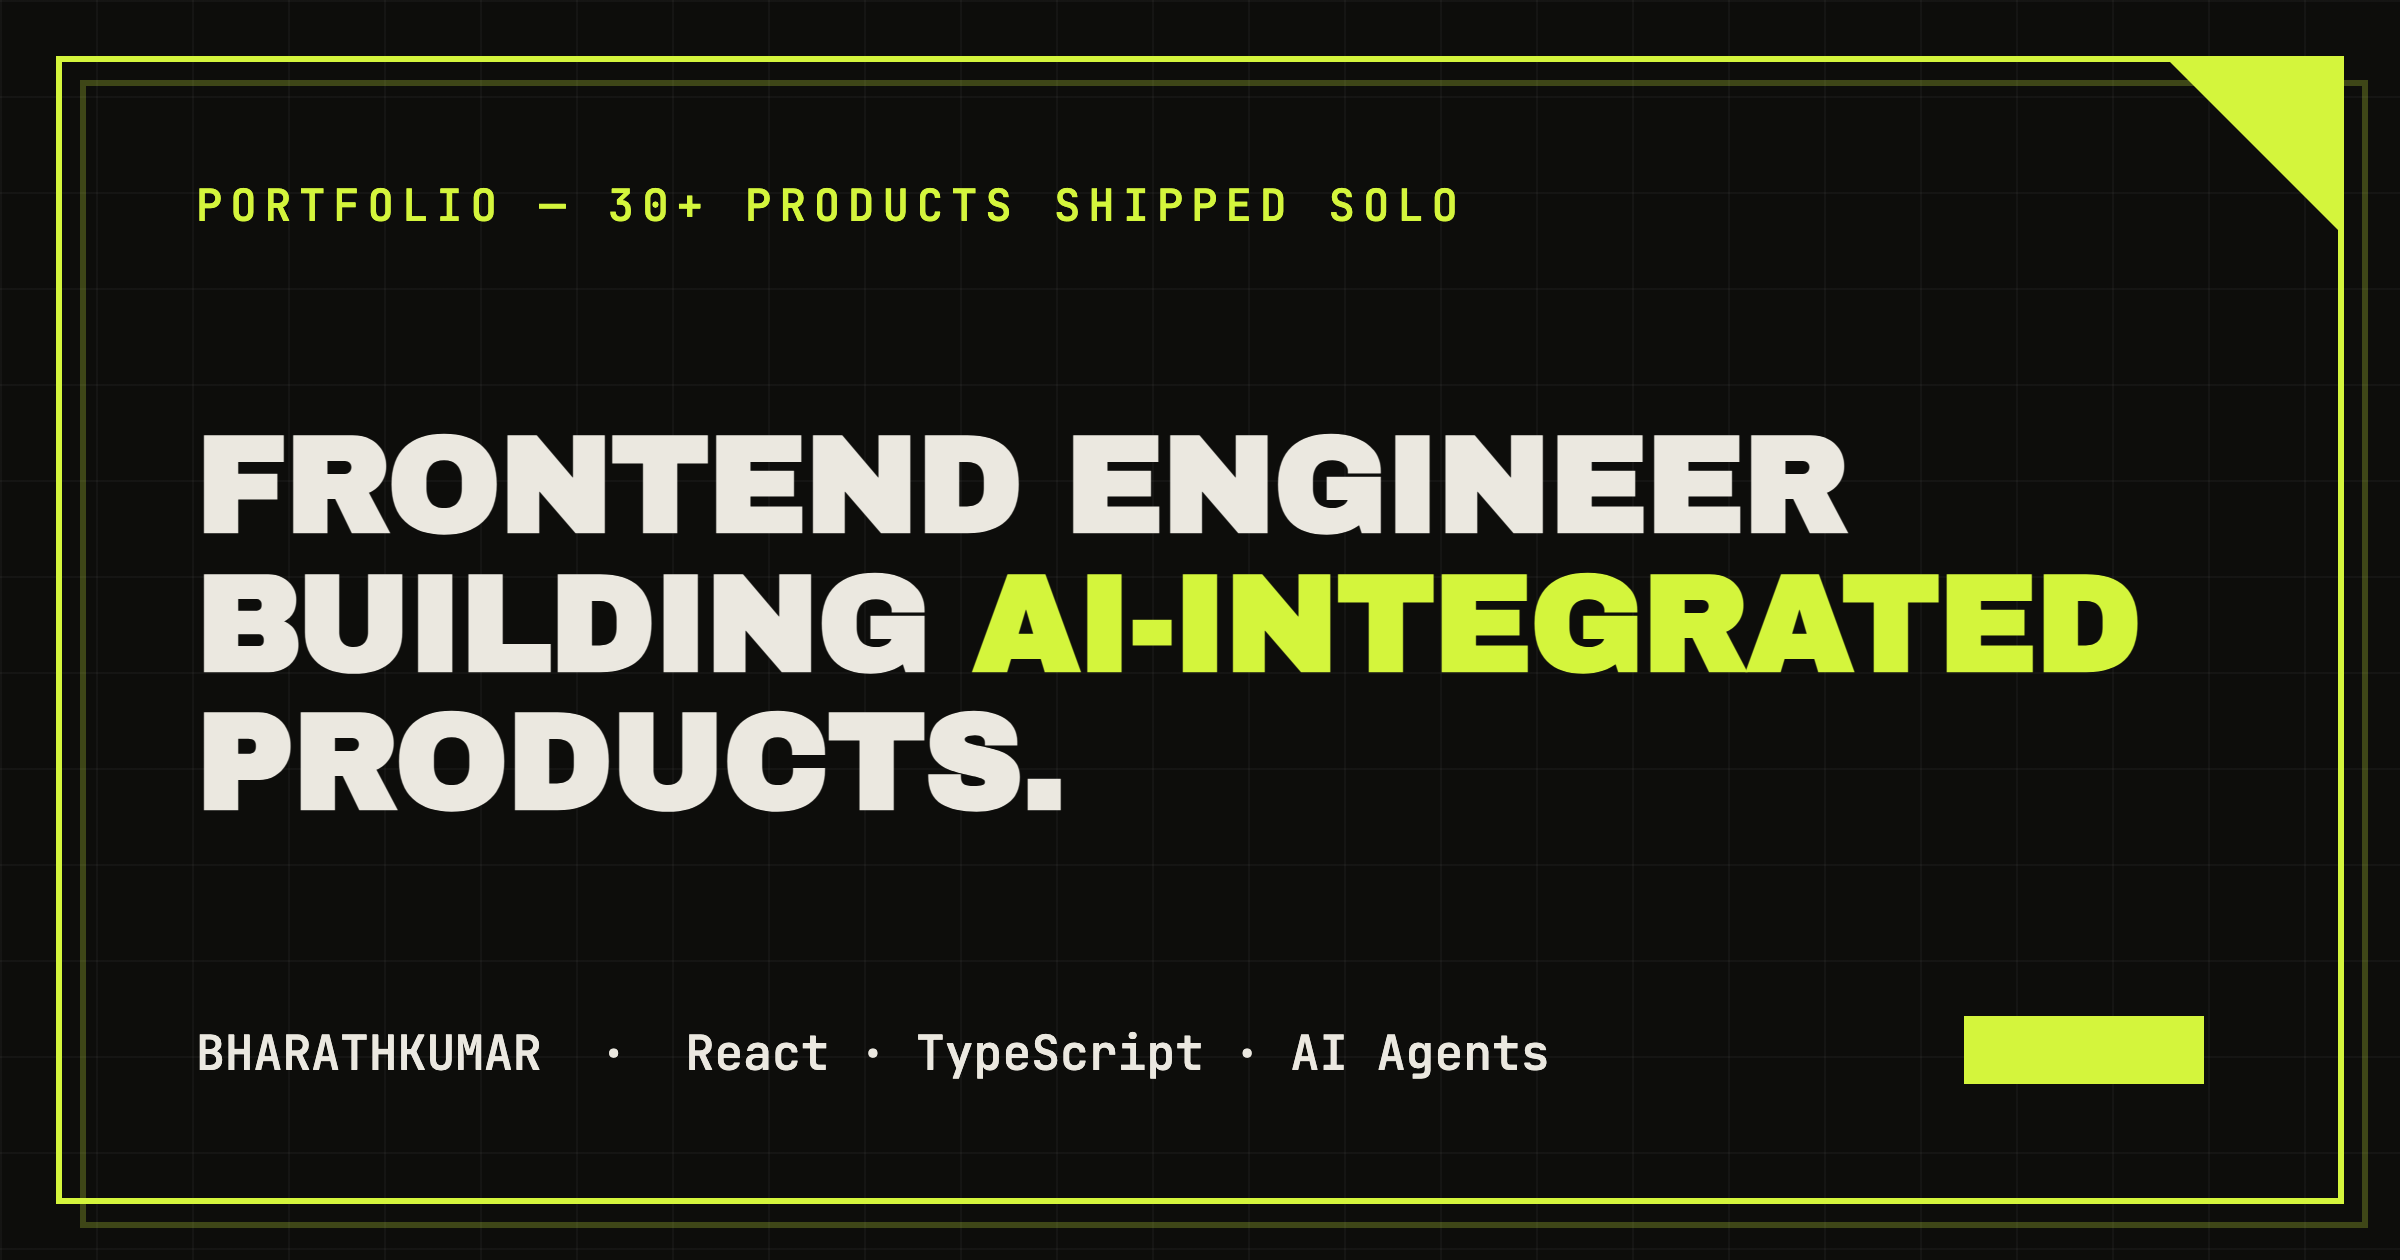
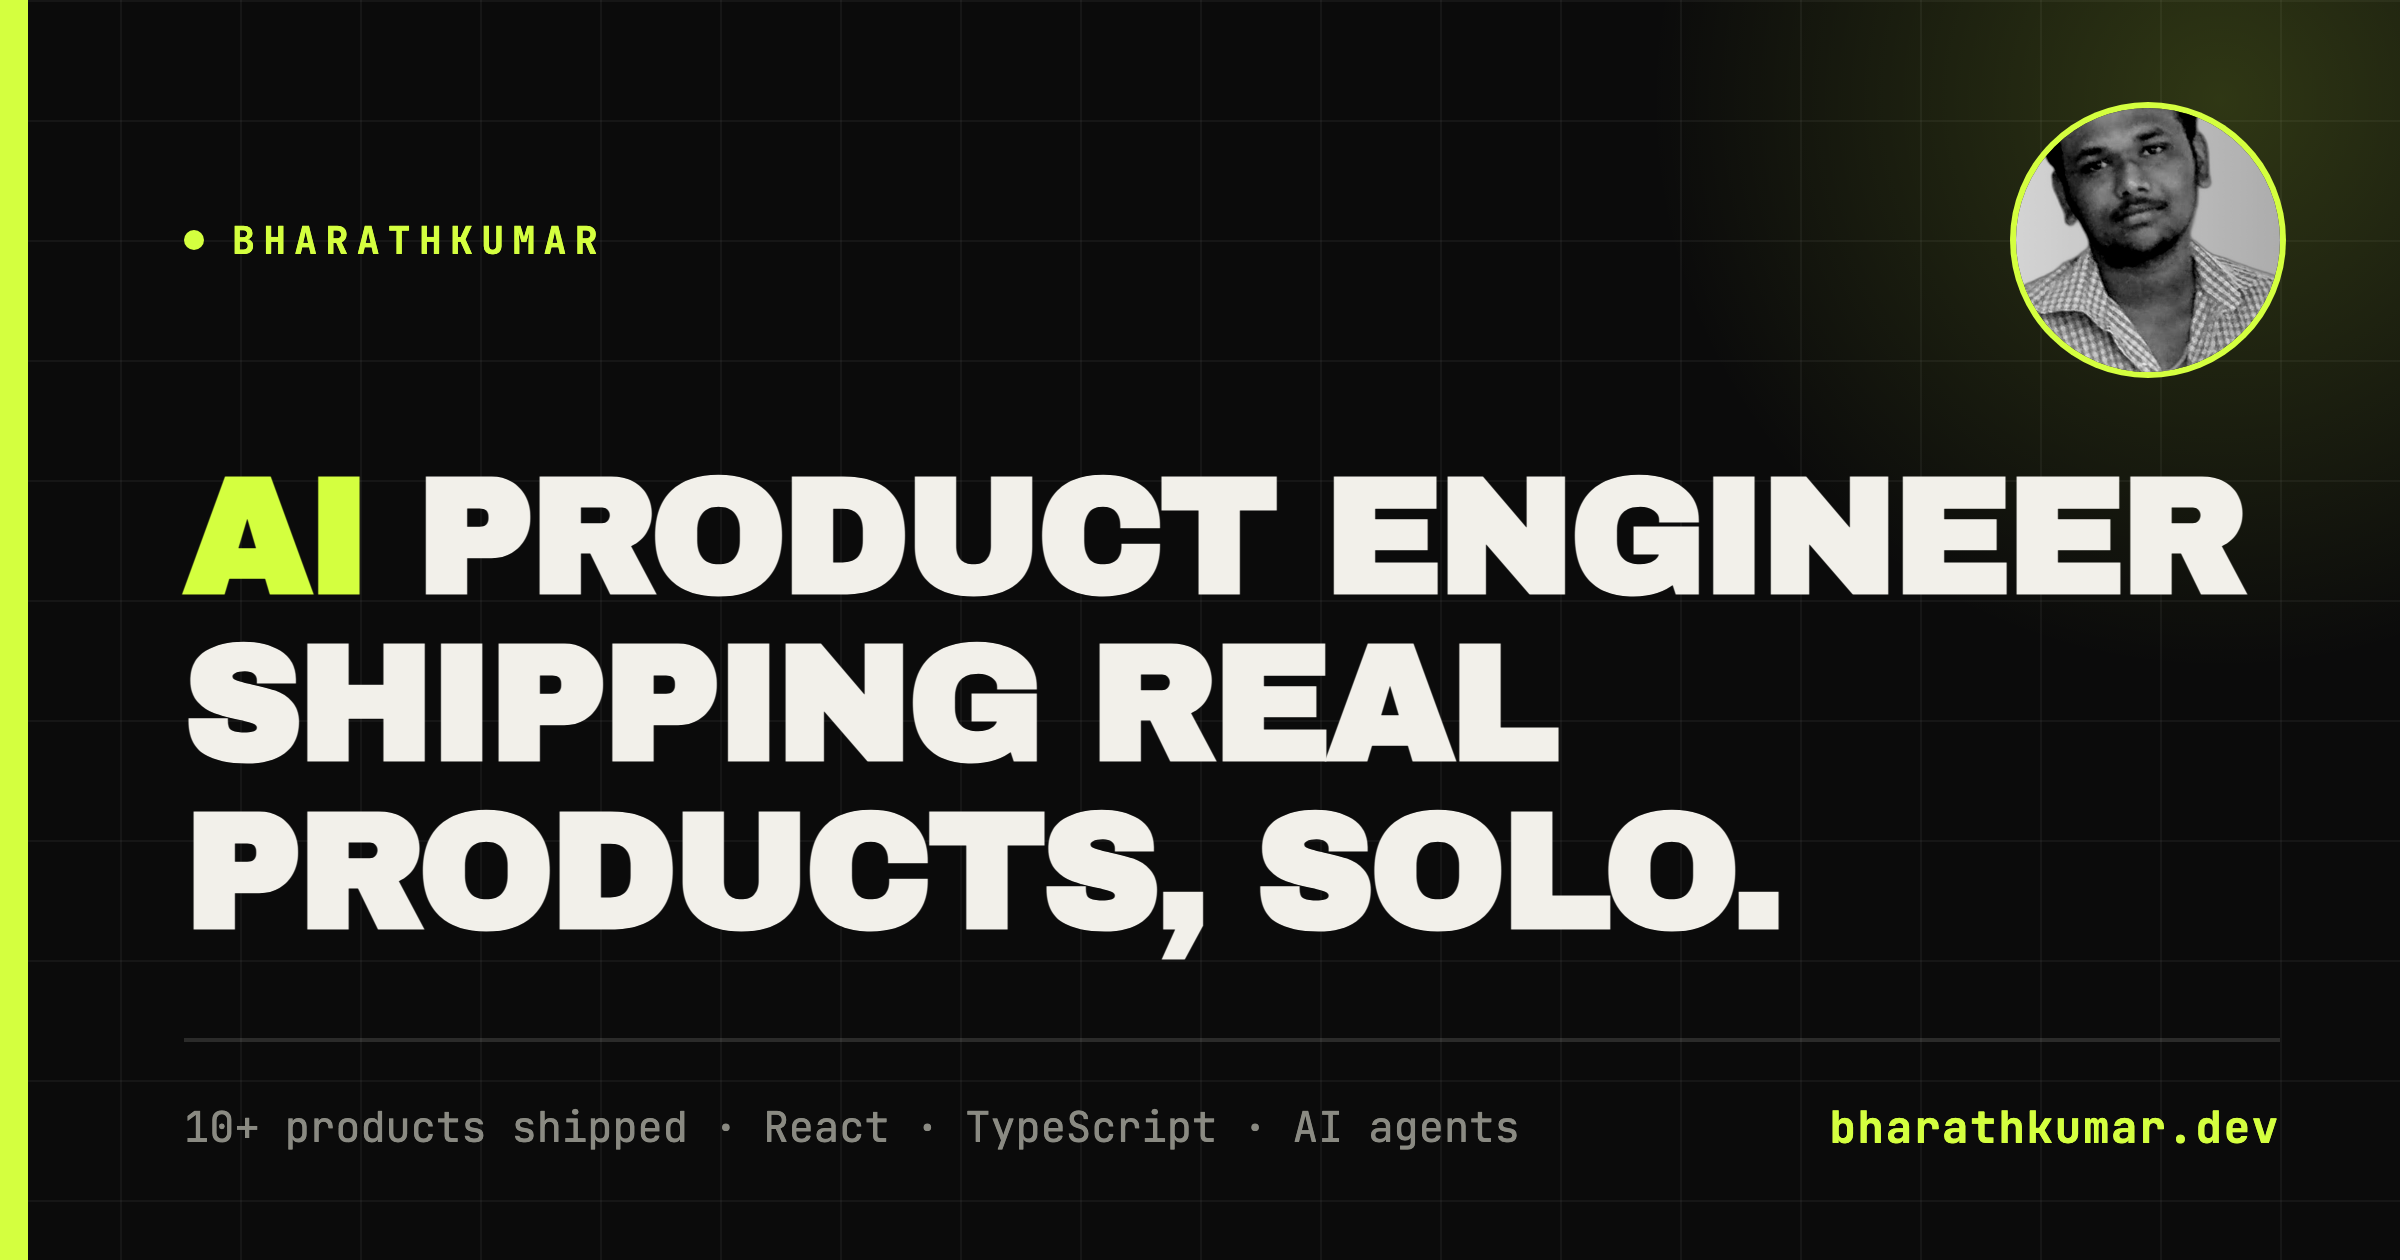
feat: rebuild OG image and reposition as AI product engineer
Redesign the social card so it reads at thumbnail size: name moved to a
top eyebrow, headline hand-broken into three nowrap lines at 82px, and
the double border, floating accent block, and redundant pill row dropped.
Adds a monochrome portrait with a chartreuse ring (cropped past the
photo's baked-in gradient ring).

Retitle from "Frontend engineer" to "AI product engineer" across the card
and the site hero, and correct the shipped-product count from 30+ to 10+
in the hero bio and indie-builder narrative.

The card is generated from scripts/og-image.html via headless Chrome;
regenerate with `npm run og`.

diff --git a/scripts/og-image.html b/scripts/og-image.html
@@ -1,0 +1,166 @@
+<!-- ponytail: hand-rolled HTML -> Chrome headless screenshot. See npm run og. -->
+<meta charset="utf-8" />
+<style>
+  @font-face {
+    font-family: "Archivo Black";
+    src: url("../node_modules/@fontsource/archivo-black/files/archivo-black-latin-400-normal.woff2") format("woff2");
+  }
+  @font-face {
+    font-family: "JetBrains Mono";
+    font-weight: 400;
+    src: url("../node_modules/@fontsource/jetbrains-mono/files/jetbrains-mono-latin-400-normal.woff2") format("woff2");
+  }
+  @font-face {
+    font-family: "JetBrains Mono";
+    font-weight: 700;
+    src: url("../node_modules/@fontsource/jetbrains-mono/files/jetbrains-mono-latin-700-normal.woff2") format("woff2");
+  }
+
+  :root {
+    --bg: #0b0b0b;
+    --ink: #f2f0ea;
+    --muted: #8a8a82;
+    --accent: #d4ff3f;
+  }
+
+  * { margin: 0; box-sizing: border-box; }
+
+  body {
+    width: 1200px;
+    height: 630px;
+    background: var(--bg);
+    color: var(--ink);
+    font-family: "JetBrains Mono", monospace;
+    overflow: hidden;
+    position: relative;
+  }
+
+  .grid {
+    position: absolute;
+    inset: 0;
+    background-image:
+      linear-gradient(rgba(255, 255, 255, 0.045) 1px, transparent 1px),
+      linear-gradient(90deg, rgba(255, 255, 255, 0.045) 1px, transparent 1px);
+    background-size: 60px 60px;
+  }
+
+  .glow {
+    position: absolute;
+    width: 620px;
+    height: 620px;
+    right: -220px;
+    top: -260px;
+    border-radius: 50%;
+    background: radial-gradient(circle, rgba(212, 255, 63, 0.18), transparent 65%);
+  }
+
+  .bar {
+    position: absolute;
+    left: 0;
+    top: 0;
+    bottom: 0;
+    width: 14px;
+    background: var(--accent);
+  }
+
+  .wrap {
+    position: relative;
+    height: 100%;
+    padding: 54px 60px 52px 92px;
+    display: flex;
+    flex-direction: column;
+    justify-content: space-between;
+  }
+
+  .top {
+    display: flex;
+    align-items: center;
+    justify-content: space-between;
+  }
+
+  .eyebrow {
+    display: flex;
+    align-items: center;
+    gap: 14px;
+    font-size: 19px;
+    font-weight: 700;
+    letter-spacing: 0.22em;
+    color: var(--accent);
+  }
+
+  /* ponytail: source photo has a pink gradient ring baked in — scale past it
+     rather than re-export the asset. Swap for a pre-cropped square if you have one. */
+  .portrait {
+    width: 132px;
+    height: 132px;
+    border-radius: 50%;
+    overflow: hidden;
+    flex: none;
+    box-shadow: 0 0 0 3px var(--accent);
+  }
+
+  .portrait img {
+    width: 100%;
+    height: 100%;
+    object-fit: cover;
+    transform: scale(1.62);
+    filter: grayscale(1) contrast(1.08) brightness(1.04);
+  }
+
+  .dot {
+    width: 10px;
+    height: 10px;
+    border-radius: 50%;
+    background: var(--accent);
+  }
+
+  h1 {
+    font-family: "Archivo Black", sans-serif;
+    font-size: 82px;
+    line-height: 1.02;
+    letter-spacing: -0.028em;
+    text-transform: uppercase;
+    white-space: nowrap; /* ponytail: lines are hand-broken, never reflow */
+  }
+
+  h1 em { font-style: normal; color: var(--accent); }
+
+  footer {
+    display: flex;
+    align-items: center;
+    justify-content: space-between;
+    gap: 40px;
+    border-top: 2px solid rgba(242, 240, 234, 0.14);
+    padding-top: 28px;
+  }
+
+  .sub {
+    font-size: 21px;
+    color: var(--muted);
+  }
+
+  .url {
+    font-size: 22px;
+    font-weight: 700;
+    color: var(--accent);
+    letter-spacing: 0.04em;
+  }
+</style>
+
+<div class="grid"></div>
+<div class="glow"></div>
+<div class="bar"></div>
+
+<div class="wrap">
+  <div class="top">
+    <div class="eyebrow"><span class="dot"></span>BHARATHKUMAR</div>
+    <div class="portrait"><img src="../public/profile-pic-2.png" alt="" /></div>
+  </div>
+
+  <h1><em>AI</em> product engineer<br />shipping real<br />products, solo.</h1>
+
+  <footer>
+    <div class="sub">10+ products shipped · React · TypeScript · AI agents</div>
+    <div class="url">bharathkumar.dev</div>
+  </footer>
+</div>
